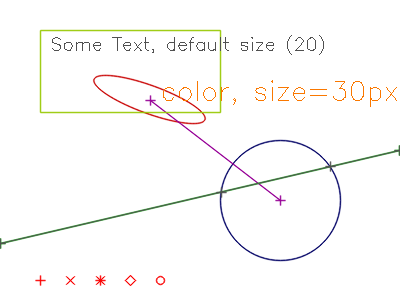
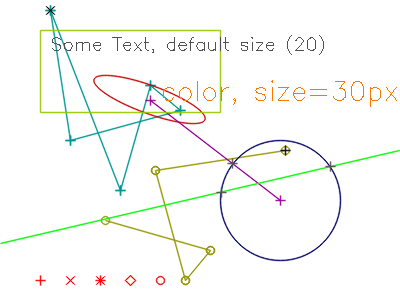
fixes on svg/opencv comparison

diff --git a/misc/figures_src/src/comparison_svg_opencv.cpp b/misc/figures_src/src/comparison_svg_opencv.cpp
@@ -4,7 +4,7 @@
 
 #include "fig_src.header"
 
-struct Data
+struct LocalData
 {
 	Circle    c1;
 	Ellipse   e1;
@@ -18,7 +18,7 @@ struct Data
 	void drawStuff( T& im )
 	{
 		cpl.draw(  im, DrawParams().setColor(0,150,150) );
-		opl.draw(  im, DrawParams().setColor(150,150,0) );
+		opl.draw(  im, DrawParams().setColor(150,150,0).setPointStyle(PtStyle::Dot) );
 		c1.draw(   im, DrawParams().setColor(0,0,100) );
 		e1.draw(   im, DrawParams().setColor(200,0,0) );
 		seg.draw(  im, DrawParams().setColor(150,0,150) );
@@ -28,7 +28,7 @@ struct Data
 		drawText( im, "color, size=30px", Point2d(160,100), DrawParams().setFontSize(30).setColor(250,120,0) );
 
 		DrawParams dp_pts;
-		auto it1 = c1.intersects( line, dp_pts.selectNext );
+		auto it1 = c1.intersects( line );
 		draw( im, it1.get() );
 
 		auto it2 = c1.intersects( seg );
@@ -43,7 +43,7 @@ int main()
 	dp.setThickness(1).showPoints();
 	dp.setDefault();
 
-	Data data;
+	LocalData data;
 	data.c1   = Circle( Point2d(280,200), 60 );
 	data.e1   = Ellipse( Point2d(150,100), 60, 15, 20.*M_PI/180. );
 	data.seg  = getSegment( data.c1, data.e1 );
@@ -60,10 +60,11 @@ int main()
 		{150, 85},
 		{120,190}
 	};
-	OPolyline opl(vpts);
-	CPolyline cpl(vpts);
-	opl.translate( 140, 105 );
-	opl.rotate( Rotate::CCW, Point2d(220,180) );
+
+	data.opl.set(vpts);
+	data.cpl.set(vpts);
+	data.opl.translate( 140, 105 );
+	data.opl.rotate( Rotate::CCW, Point2d(220,180) );
 
 	data.drawStuff( im1 );
 	data.drawStuff( im2 );
@@ -79,9 +80,6 @@ int main()
 		newPointStyle = dp._dpValues.nextPointStyle();
 		pt.translate(30,0);
 	}
-
-	Line2d( 22,238,280,178).draw( im1 );
-	Line2d( 22,238,280,178).draw( im2 );
 
 	im1.write( "comparison_1.svg" );
 	im2.write( "comparison_2.png" );
